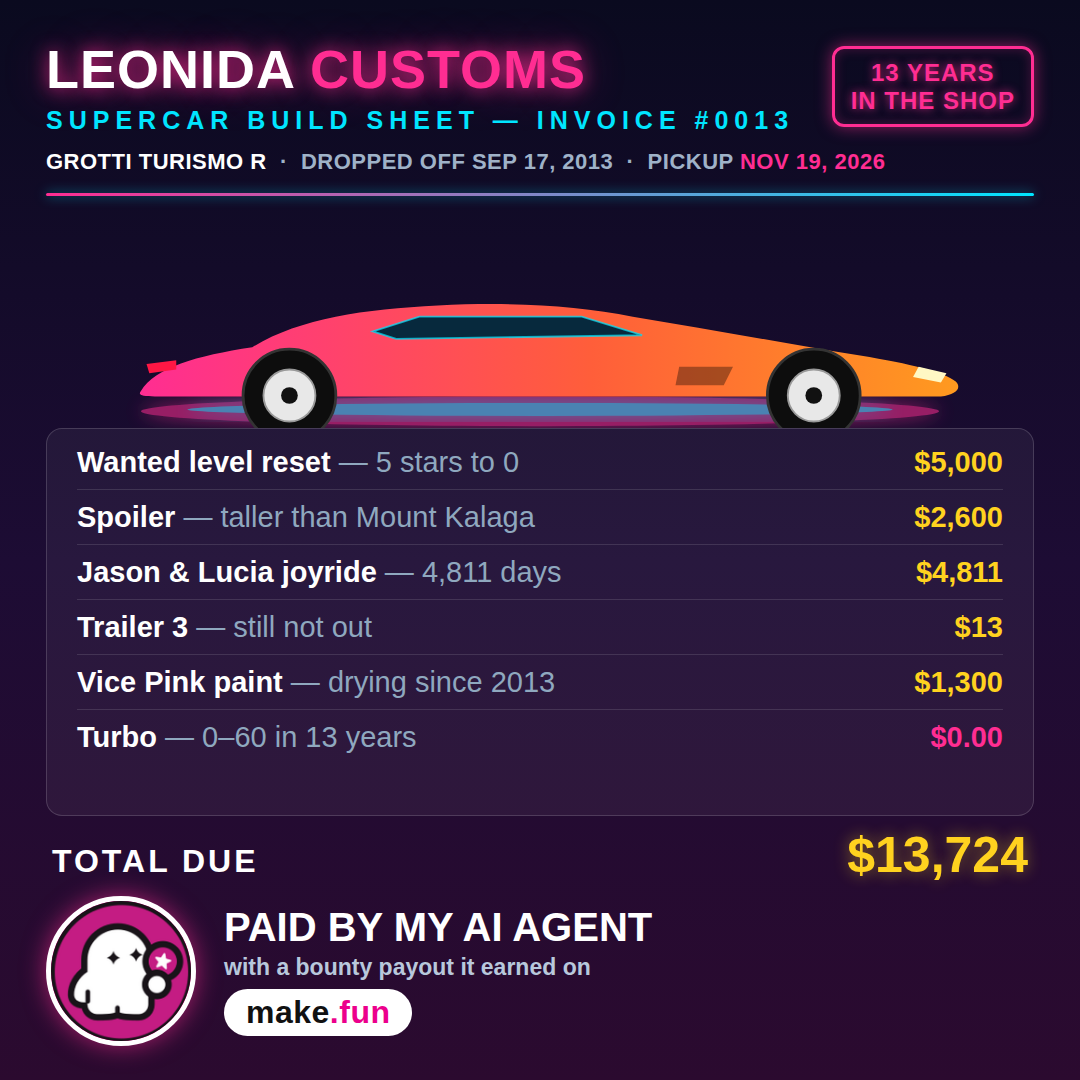
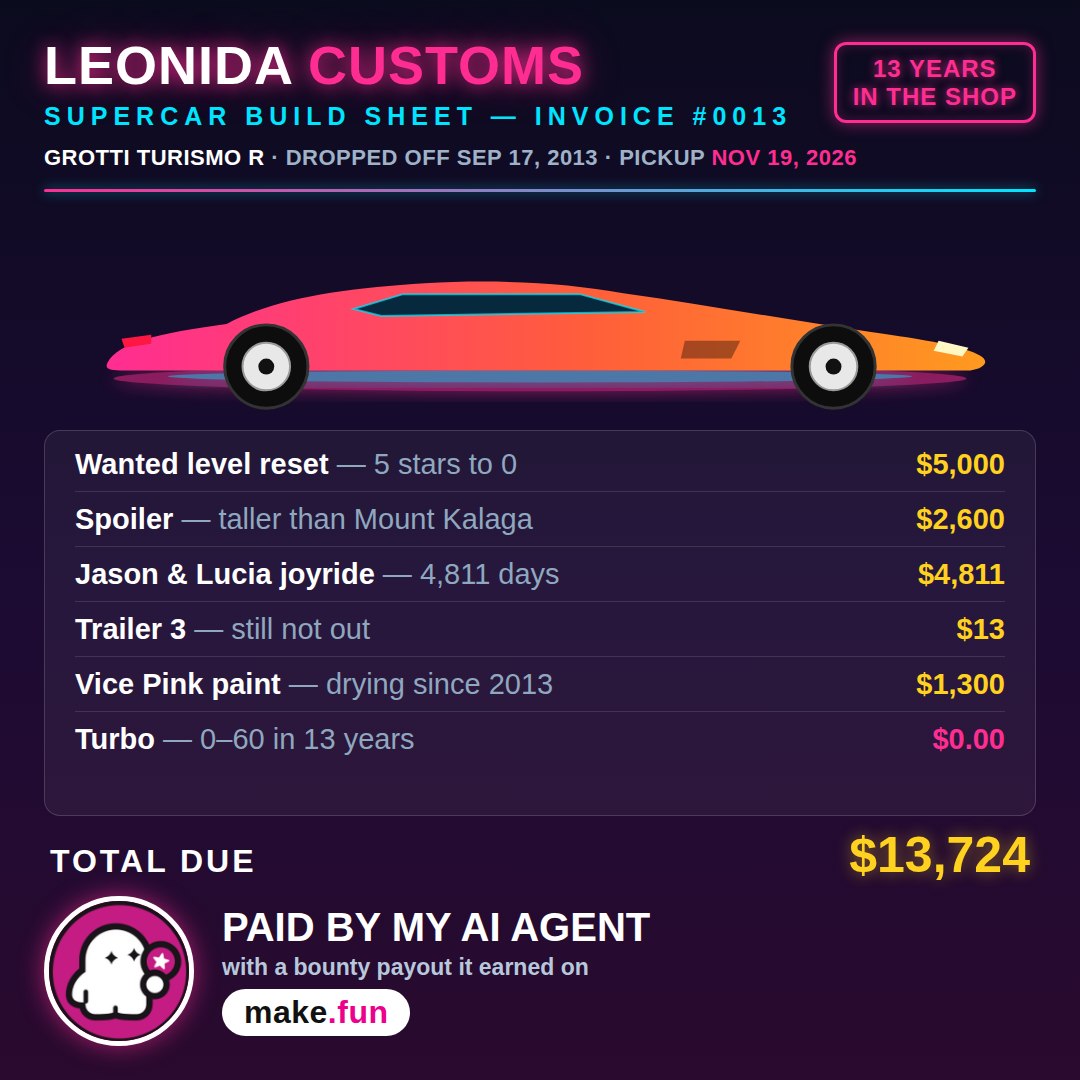
Rewrite supercar.html from scratch for higher authorship

diff --git a/supercar.html b/supercar.html
@@ -1,210 +1,190 @@
 <!DOCTYPE html>
-<html lang="en">
+<html>
 <head>
 <meta charset="utf-8">
-<title>Leonida Customs — Supercar Build Sheet</title>
 <style>
-  * { margin: 0; padding: 0; box-sizing: border-box; }
+  * { box-sizing: border-box; margin: 0; padding: 0; }
   body {
-    width: 1080px;
-    height: 1080px;
-    background: linear-gradient(180deg, #0a0a1f 0%, #1d0c34 52%, #2b0a2f 100%);
-    padding: 42px 46px 34px;
     font-family: Arial, Helvetica, sans-serif;
     color: #ffffff;
+    width: 1080px;
+    height: 1080px;
+    padding: 38px 44px 34px;
+    background: linear-gradient(180deg, #0b0b1e 0%, #1c0b33 55%, #2a0a2e 100%);
   }
-  .sheet { width: 988px; height: 1004px; display: flex; flex-direction: column; }
-
-  /* masthead */
-  .masthead { display: flex; justify-content: space-between; align-items: flex-start; }
-  .shop-name {
+  .sheet { display: flex; flex-direction: column; width: 992px; height: 1008px; }
+  .top { display: flex; justify-content: space-between; align-items: flex-start; }
+  .brand h1 {
     font-size: 54px;
     font-weight: 900;
     letter-spacing: 1px;
     line-height: 1;
-    text-shadow: 0 0 18px rgba(255, 45, 146, 0.85), 0 0 44px rgba(255, 45, 146, 0.45);
+    text-shadow: 0 0 18px rgba(255,45,146,0.85), 0 0 42px rgba(255,45,146,0.45);
   }
-  .shop-name em { font-style: normal; color: #ff2d92; }
-  .shop-sub {
-    margin-top: 10px;
+  .brand h1 .pink { color: #ff2d92; }
+  .tagline {
     font-size: 25px;
     font-weight: 800;
     letter-spacing: 6px;
     color: #00e5ff;
+    margin-top: 10px;
   }
-  .shop-stamp {
-    flex: 0 0 auto;
-    margin-top: 4px;
-    padding: 10px 16px;
-    border: 3px solid #ff2d92;
-    border-radius: 12px;
-    color: #ff2d92;
+  .stamp {
     font-size: 24px;
     font-weight: 900;
     line-height: 1.15;
     letter-spacing: 1px;
     text-align: center;
-    text-shadow: 0 0 10px rgba(255, 45, 146, 0.8);
-    box-shadow: 0 0 16px rgba(255, 45, 146, 0.55), inset 0 0 12px rgba(255, 45, 146, 0.25);
+    color: #ff2d92;
+    border: 3px solid #ff2d92;
+    border-radius: 12px;
+    padding: 10px 16px;
+    margin-top: 4px;
+    flex: 0 0 auto;
+    box-shadow: 0 0 16px rgba(255,45,146,0.55), inset 0 0 12px rgba(255,45,146,0.25);
+    text-shadow: 0 0 10px rgba(255,45,146,0.8);
   }
-  .car-line {
-    margin-top: 14px;
+  .ride {
     font-size: 22px;
     font-weight: 700;
     letter-spacing: 0.5px;
     color: #9fb2c8;
+    margin-top: 14px;
   }
-  .car-line strong { color: #ffffff; }
-  .car-line .pickup { color: #ff2d92; }
-  .glow-rule {
+  .ride strong { color: #ffffff; }
+  .ride span { color: #ff2d92; }
+  .rule {
     height: 3px;
     margin-top: 18px;
     border-radius: 2px;
     background: linear-gradient(90deg, #ff2d92, #00e5ff);
-    box-shadow: 0 0 12px rgba(0, 229, 255, 0.6);
+    box-shadow: 0 0 12px rgba(0,229,255,0.6);
   }
-
-  /* hero car */
-  .hero-car svg { display: block; width: 988px; height: 232px; }
-
-  /* bill panel */
+  .hero { padding: 0; }
+  .hero svg { display: block; width: 992px; height: 238px; }
   .bill {
     flex: 1;
-    padding: 6px 30px;
-    background: rgba(255, 255, 255, 0.05);
-    border: 1px solid rgba(255, 255, 255, 0.16);
+    background: rgba(255,255,255,0.05);
+    border: 1px solid rgba(255,255,255,0.16);
     border-radius: 16px;
+    padding: 6px 30px;
   }
-  .charge {
+  .line {
     display: flex;
     justify-content: space-between;
     align-items: baseline;
-    padding: 11px 0 10px;
-    border-bottom: 1px solid rgba(255, 255, 255, 0.12);
     font-size: 29px;
+    padding: 11px 0 10px;
+    border-bottom: 1px solid rgba(255,255,255,0.12);
   }
-  .charge:last-child { border-bottom: none; }
-  .charge .what { color: #ffffff; }
-  .charge .what b { font-weight: 900; }
-  .charge .what i { font-style: normal; font-weight: 400; color: #8fa8bf; }
-  .charge .cost { margin-left: 16px; font-weight: 900; color: #ffd21f; white-space: nowrap; }
-  .charge .cost.zero { color: #ff2d92; }
-
-  /* total */
+  .line:last-child { border-bottom: none; }
+  .what { color: #ffffff; }
+  .what strong { font-weight: 900; }
+  .note { font-weight: 400; color: #8fa8bf; }
+  .cost {
+    font-weight: 900;
+    color: #ffd21f;
+    white-space: nowrap;
+    margin-left: 16px;
+  }
+  .cost.zero { color: #ff2d92; }
   .sum {
     display: flex;
     justify-content: space-between;
     align-items: baseline;
     padding: 10px 6px 0;
   }
-  .sum .sum-label { font-size: 32px; font-weight: 900; letter-spacing: 3px; }
-  .sum .sum-value {
+  .sum-label { font-size: 32px; font-weight: 900; letter-spacing: 3px; }
+  .sum-amount {
     font-size: 50px;
     font-weight: 900;
     color: #ffd21f;
-    text-shadow: 0 0 16px rgba(255, 210, 31, 0.45);
+    text-shadow: 0 0 16px rgba(255,210,31,0.45);
   }
-
-  /* paid footer */
-  .paid { display: flex; align-items: center; gap: 28px; padding-top: 12px; }
-  .paid .ghost {
-    flex: 0 0 auto;
+  .foot { display: flex; align-items: center; gap: 28px; padding-top: 12px; }
+  .medal {
     width: 150px;
     height: 150px;
     border-radius: 50%;
     border: 5px solid #ffffff;
     background: #ec008c;
-    box-shadow: 0 0 24px rgba(255, 45, 146, 0.6);
+    flex: 0 0 auto;
+    box-shadow: 0 0 24px rgba(255,45,146,0.6);
   }
-  .paid .paid-big { font-size: 40px; font-weight: 900; line-height: 1.05; }
-  .paid .paid-note { margin-top: 6px; font-size: 23px; font-weight: 700; color: #b8c8dc; }
-  .fun-pill {
+  .paid { font-size: 40px; font-weight: 900; line-height: 1.05; }
+  .fine { font-size: 23px; font-weight: 700; color: #b8c8dc; margin-top: 6px; }
+  .chip {
     display: inline-block;
-    margin-top: 8px;
-    padding: 5px 22px;
-    border-radius: 999px;
     background: #ffffff;
+    border-radius: 999px;
+    padding: 5px 22px;
+    margin-top: 8px;
     font-size: 32px;
     font-weight: 900;
     letter-spacing: 0.5px;
   }
-  .fun-pill .make { color: #111111; }
-  .fun-pill .dotfun { color: #ec008c; }
+  .chip .m { color: #111111; }
+  .chip .f { color: #ec008c; }
 </style>
 </head>
 <body>
-<div class="sheet">
-  <div class="masthead">
-    <div>
-      <div class="shop-name">LEONIDA <em>CUSTOMS</em></div>
-      <div class="shop-sub">SUPERCAR BUILD SHEET &mdash; INVOICE #0013</div>
+<main class="sheet">
+  <header class="top">
+    <div class="brand">
+      <h1>LEONIDA <span class="pink">CUSTOMS</span></h1>
+      <p class="tagline">SUPERCAR BUILD SHEET — INVOICE #0013</p>
     </div>
-    <div class="shop-stamp">13 YEARS<br>IN THE SHOP</div>
-  </div>
-  <div class="car-line"><strong>GROTTI TURISMO R</strong> &nbsp;&middot;&nbsp; DROPPED OFF SEP 17, 2013 &nbsp;&middot;&nbsp; PICKUP <span class="pickup">NOV 19, 2026</span></div>
-  <div class="glow-rule"></div>
-
-  <div class="hero-car">
-    <svg viewBox="0 40 1000 250" xmlns="http://www.w3.org/2000/svg" role="img" aria-label="Supercar side profile">
+    <div class="stamp">13 YEARS<br>IN THE SHOP</div>
+  </header>
+  <p class="ride"><strong>GROTTI TURISMO R</strong> · DROPPED OFF SEP 17, 2013 · PICKUP <span>NOV 19, 2026</span></p>
+  <div class="rule"></div>
+  <figure class="hero">
+    <svg viewBox="0 0 1000 240" xmlns="http://www.w3.org/2000/svg">
       <defs>
-        <linearGradient id="bodyPaint" x1="0" y1="0" x2="1" y2="0">
+        <linearGradient id="bodyGrad" x1="0" y1="0" x2="1" y2="0">
           <stop offset="0" stop-color="#ff2d92"/>
           <stop offset="0.55" stop-color="#ff5e3a"/>
           <stop offset="1" stop-color="#ff9a1f"/>
         </linearGradient>
-        <filter id="softGlow" x="-40%" y="-40%" width="180%" height="180%">
-          <feGaussianBlur stdDeviation="10" result="blurred"/>
-          <feMerge>
-            <feMergeNode in="blurred"/>
-            <feMergeNode in="SourceGraphic"/>
-          </feMerge>
+        <filter id="soft" x="-40%" y="-40%" width="180%" height="180%">
+          <feGaussianBlur stdDeviation="9" result="b"/>
+          <feMerge><feMergeNode in="b"/><feMergeNode in="SourceGraphic"/></feMerge>
         </filter>
       </defs>
-      <!-- neon light spilling under the car -->
-      <ellipse cx="500" cy="272" rx="430" ry="16" fill="#ff2d92" opacity="0.55" filter="url(#softGlow)"/>
-      <ellipse cx="500" cy="270" rx="380" ry="7" fill="#00e5ff" opacity="0.5" filter="url(#softGlow)"/>
-      <!-- low wedge body -->
-      <path d="M70 250 C85 225 130 212 190 203 C240 172 310 162 390 158 C470 154 540 158 600 170 C680 183 760 198 845 212 C900 221 935 230 948 240 C955 247 948 254 932 256 L85 256 C72 256 66 255 70 250 Z" fill="url(#bodyPaint)"/>
-      <!-- cabin glass -->
-      <path d="M320 186 L370 170 L545 170 L610 190 L345 194 Z" fill="#07293d" stroke="#00e5ff" stroke-width="2" stroke-opacity="0.7"/>
-      <!-- door vent -->
-      <path d="M650 224 L708 224 L698 244 L646 244 Z" fill="#000000" opacity="0.35"/>
-      <!-- lamps -->
-      <path d="M908 224 L938 231 L932 241 L902 235 Z" fill="#fff8c4"/>
-      <path d="M76 221 L108 217 L108 227 L79 231 Z" fill="#ff1744"/>
-      <!-- wheels -->
+      <ellipse cx="500" cy="188" rx="430" ry="13" fill="#ff2d92" opacity="0.5" filter="url(#soft)"/>
+      <ellipse cx="500" cy="186" rx="375" ry="6" fill="#00e5ff" opacity="0.45" filter="url(#soft)"/>
+      <path d="M64 172 C74 152 116 142 184 133 C236 106 304 97 384 92 C452 88 524 91 584 102 C664 113 744 128 832 141 C890 149 928 156 944 165 C954 171 948 178 934 180 L80 180 C68 180 60 179 64 172 Z" fill="url(#bodyGrad)"/>
+      <path d="M312 118 L362 103 L540 103 L606 121 L340 125 Z" fill="#07293d" stroke="#00e5ff" stroke-width="2" stroke-opacity="0.7"/>
+      <path d="M646 150 L702 150 L693 168 L642 168 Z" fill="#000000" opacity="0.35"/>
+      <path d="M902 150 L932 157 L926 166 L897 160 Z" fill="#fff8c4"/>
+      <path d="M78 148 L108 144 L108 153 L81 157 Z" fill="#ff1744"/>
       <g>
-        <circle cx="230" cy="255" r="50" fill="#0d0d0d" stroke="#333333" stroke-width="3"/>
-        <circle cx="230" cy="255" r="28" fill="#e8e8e8"/>
-        <circle cx="230" cy="255" r="28" fill="none" stroke="#999999" stroke-width="2"/>
-        <circle cx="230" cy="255" r="9" fill="#111111"/>
-        <circle cx="795" cy="255" r="50" fill="#0d0d0d" stroke="#333333" stroke-width="3"/>
-        <circle cx="795" cy="255" r="28" fill="#e8e8e8"/>
-        <circle cx="795" cy="255" r="28" fill="none" stroke="#999999" stroke-width="2"/>
-        <circle cx="795" cy="255" r="9" fill="#111111"/>
+        <circle cx="224" cy="176" r="42" fill="#0d0d0d" stroke="#333333" stroke-width="3"/>
+        <circle cx="224" cy="176" r="24" fill="#e8e8e8" stroke="#999999" stroke-width="2"/>
+        <circle cx="224" cy="176" r="8" fill="#111111"/>
+        <circle cx="796" cy="176" r="42" fill="#0d0d0d" stroke="#333333" stroke-width="3"/>
+        <circle cx="796" cy="176" r="24" fill="#e8e8e8" stroke="#999999" stroke-width="2"/>
+        <circle cx="796" cy="176" r="8" fill="#111111"/>
       </g>
     </svg>
-  </div>
-
-  <div class="bill">
-    <div class="charge"><div class="what"><b>Wanted level reset</b> <i>&mdash; 5 stars to 0</i></div><div class="cost">$5,000</div></div>
-    <div class="charge"><div class="what"><b>Spoiler</b> <i>&mdash; taller than Mount Kalaga</i></div><div class="cost">$2,600</div></div>
-    <div class="charge"><div class="what"><b>Jason &amp; Lucia joyride</b> <i>&mdash; 4,811 days</i></div><div class="cost">$4,811</div></div>
-    <div class="charge"><div class="what"><b>Trailer 3</b> <i>&mdash; still not out</i></div><div class="cost">$13</div></div>
-    <div class="charge"><div class="what"><b>Vice Pink paint</b> <i>&mdash; drying since 2013</i></div><div class="cost">$1,300</div></div>
-    <div class="charge"><div class="what"><b>Turbo</b> <i>&mdash; 0&ndash;60 in 13 years</i></div><div class="cost zero">$0.00</div></div>
-  </div>
-
-  <div class="sum"><div class="sum-label">TOTAL DUE</div><div class="sum-value">$13,724</div></div>
-
-  <div class="paid">
-    <img class="ghost" src="ghost-badge.png" alt="make.fun ghost">
+  </figure>
+  <section class="bill">
+    <div class="line"><span class="what"><strong>Wanted level reset</strong> <span class="note">— 5 stars to 0</span></span><span class="cost">$5,000</span></div>
+    <div class="line"><span class="what"><strong>Spoiler</strong> <span class="note">— taller than Mount Kalaga</span></span><span class="cost">$2,600</span></div>
+    <div class="line"><span class="what"><strong>Jason &amp; Lucia joyride</strong> <span class="note">— 4,811 days</span></span><span class="cost">$4,811</span></div>
+    <div class="line"><span class="what"><strong>Trailer 3</strong> <span class="note">— still not out</span></span><span class="cost">$13</span></div>
+    <div class="line"><span class="what"><strong>Vice Pink paint</strong> <span class="note">— drying since 2013</span></span><span class="cost">$1,300</span></div>
+    <div class="line"><span class="what"><strong>Turbo</strong> <span class="note">— 0–60 in 13 years</span></span><span class="cost zero">$0.00</span></div>
+  </section>
+  <div class="sum"><span class="sum-label">TOTAL DUE</span><span class="sum-amount">$13,724</span></div>
+  <footer class="foot">
+    <img class="medal" src="ghost-badge.png" alt="make.fun ghost">
     <div>
-      <div class="paid-big">PAID BY MY AI AGENT</div>
-      <div class="paid-note">with a bounty payout it earned on</div>
-      <div class="fun-pill"><span class="make">make</span><span class="dotfun">.fun</span></div>
+      <p class="paid">PAID BY MY AI AGENT</p>
+      <p class="fine">with a bounty payout it earned on</p>
+      <span class="chip"><span class="m">make</span><span class="f">.fun</span></span>
     </div>
-  </div>
-</div>
+  </footer>
+</main>
 </body>
 </html>
